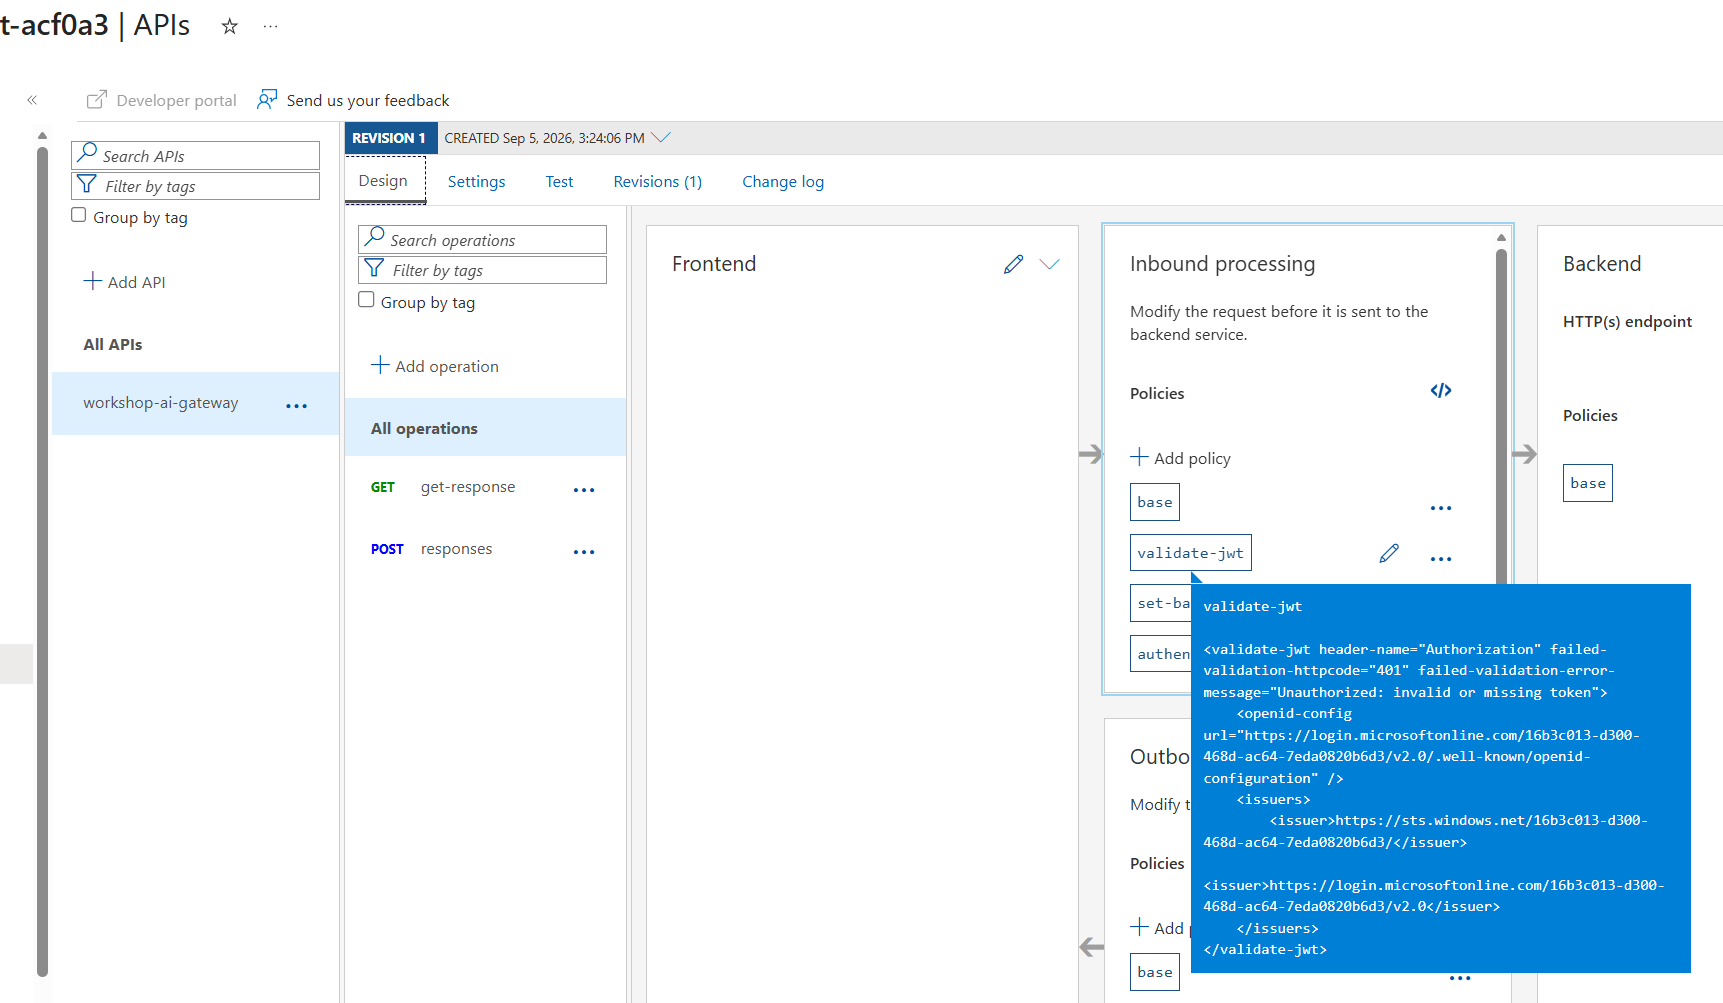
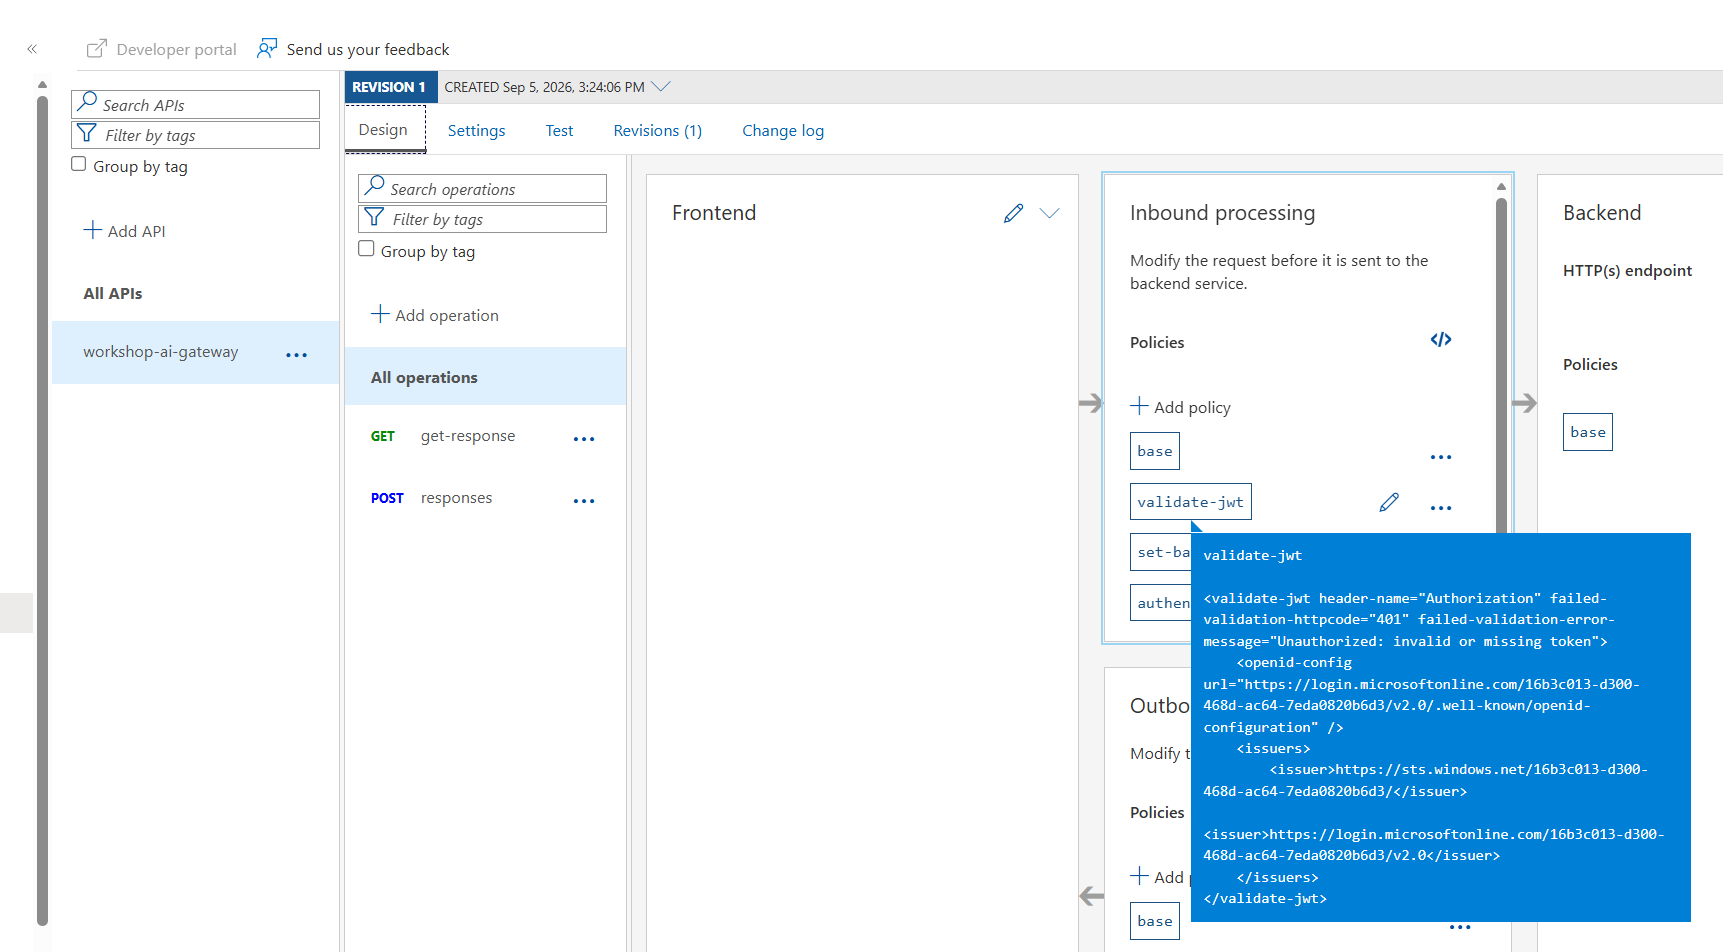
docs: Clarify API naming in module-01 README and update associated image

diff --git a/agenthost/module-01/README.md b/agenthost/module-01/README.md
@@ -199,7 +199,7 @@ az deployment sub show \
 
 ## Step 3 — Verify APIM as a standalone gateway
 
-In the resource group, click the APIM and enter the APIM portal, you will see the API is added with pointing to the Foundry project endpoint:
+In the resource group, click the APIM and enter the APIM portal, you will see an API `workshop-ai-gateway` is added with pointing to the Foundry project endpoint:
 ![module-01-standalone-gw](../pic/module-01-standalone-gw.png)
 
 There are 2 operations are also defined ( /responses, /get-response), with the inbound processing policies:
